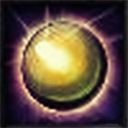
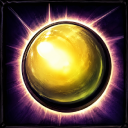
Adjust draft abilitiy (#2063)
* Adjust active lottery tier distribution and buff pudge meat hook

* Update npc_abilities_override.txt

* Update spectre_dispersion2.png

* balance

* adjust ability

* Update npc_abilities_override.txt

---------

Pull request: Adjust draft abilitiy
## Issue

- [x] fix #2053

## Release Note

```
[b]游戏性更新 v5.00a[/b]

- 修正一些bug和平衡性改动。
```

```
[b]Gameplay update v5.00a[/b]

- Fixed some bugs and balance.
```

diff --git a/src/vscripts/modules/lottery/lottery-abilities.ts b/src/vscripts/modules/lottery/lottery-abilities.ts
@@ -13,8 +13,9 @@ export const abilityTiersActive: Tier[] = [
       'abaddon_borrowed_time', // 回光返照
       'alchemist_chemical_rage', // 化学狂暴
       'life_stealer_rage', // 狂暴
+      'marci_unleash', // 怒拳破
       // 小技能
-      'gyrocopter_flak_cannon', // 高射火炮
+      'dark_willow_shadow_realm', // 暗影之境
     ],
   },
   {
@@ -22,22 +23,23 @@ export const abilityTiersActive: Tier[] = [
     names: [
       // 主动技能
       // 大招
-      'marci_unleash', // 怒拳破
       'juggernaut_omni_slash', // 无敌斩
       'sven_gods_strength', // 神之力量
       'legion_commander_duel', // 决斗
       'mars_bulwark', // 护身甲盾
       'enigma_black_hole', // 黑洞
       'faceless_void_time_zone', // 逆转时空
+      'doom_bringer_doom', // 末日
 
       // 小技能
-      'dark_willow_shadow_realm', // 暗影之境
       'antimage_counterspell', // 法术反制
+      'marci_bodyguard', // 护卫术
 
       // 自定义技能
       'imba_chaos_knight_phantasm', // 混沌之军
       'bloodseeker_blood_mist2', // 血魔 血雾
       'ability_trigger_on_active', //紫蝴蝶
+      'brewmaster_drunken_boxing', // 酒仙 醉拳
     ],
   },
   {
@@ -45,33 +47,34 @@ export const abilityTiersActive: Tier[] = [
     names: [
       // 主动技能
       // 大招
-      'doom_bringer_doom', // 末日
       'shadow_shaman_mass_serpent_ward', // 群蛇守卫
       'necrolyte_reapers_scythe', // 死神镰刀
       'storm_spirit_ball_lightning', // 球状闪电
       'slark_shadow_dance', // 暗影之舞
       'brewmaster_primal_split_lua', // 元素分离 改
-      'tidehunter_ravage', // 毁灭
-      'dazzle_bad_juju', // 邪能
       // 'dragon_knight_elder_dragon_form', //变龙 近战选择有问题
       'puck_dream_coil', // 梦境缠绕
-      'elder_titan_earth_splitter', // 裂地沟壑
-      'marci_bodyguard', // 护卫术
+      'elder_titan_earth_splitter', // 上古巨神 裂地沟壑
       'void_spirit_astral_step', // 太虚之径
       'lich_chain_frost', // 连环霜冻
       'jakiro_macropyre', // 烈焰焚身
+      'axe_culling_blade', // 淘汰之刃
+      'treant_overgrowth', // 疯狂生长
+      'zuus_thundergods_wrath', // 雷神之怒
+      'crystal_maiden_freezing_field', // 极寒领域
 
       // 小技能
-      'dark_seer_vacuum', // 真空
-      'mars_bulwark', // 护身甲盾
+      'gyrocopter_flak_cannon', // 高射火炮
       'dark_willow_bramble_maze', // 荆棘迷宫
       'ember_spirit_sleight_of_fist', // 无影拳
-      'warlock_fatal_bonds', // 致命连接
+      'shredder_whirling_death', // 死亡旋风
+      'magnataur_empower', // 授予力量
+      'tidehunter_kraken_shell', // 海妖外壳
+      'earthshaker_enchant_totem', // 强化图腾
 
       // 自定义技能
       'clinkz_burning_barrage2', // 炽烈火雨
       'ancient_apparition_freezing_aura', // 极寒光环
-      'brewmaster_drunken_boxing', // 酒仙 醉拳
     ],
   },
   {
@@ -79,60 +82,52 @@ export const abilityTiersActive: Tier[] = [
     names: [
       // 主动技能
       // 大招
+      'tidehunter_ravage', // 毁灭
       'bounty_hunter_track', // 追踪术
       'lion_finger_of_death', // 死亡一指
       'silencer_global_silence', // 全领域禁默
-      'bloodseeker_rupture', // 割裂
-      'centaur_stampede', // 奔袭冲撞
       'winter_wyvern_winters_curse', // 寒冬诅咒
       'kunkka_ghostship', // 幽灵船
       'pangolier_gyroshell', // 地雷滚滚
-      'treant_overgrowth', // 疯狂生长
       'tinker_rearm_lua', // 再装填
       'ringmaster_wheel', // 奇观轮
-      'axe_culling_blade', // 淘汰之刃
       'batrider_flaming_lasso', // 燃烧枷锁
+      'dazzle_bad_juju', // 邪能
 
       // 小技能
+      'warlock_fatal_bonds', // 致命连接
       'lion_impale', // 裂地尖刺
       'sven_storm_bolt', // 风暴之拳 斯温
-      'lina_light_strike_array', // 光击阵
       'omniknight_repel', // 咸鱼恩赐
-      'earthshaker_enchant_totem', // 强化图腾
       'templar_assassin_refraction', // 圣堂刺客 折光
       'centaur_double_edge', // 双刃剑
-      'zuus_thundergods_wrath', // 雷神之怒
       'axe_berserkers_call', // 狂战士之吼
       'faceless_void_chronosphere', // 时间结界
-      'shredder_whirling_death', // 死亡旋风
       'tidehunter_anchor_smash', // 锚击
       'primal_beast_trample', // 踏
       'mars_gods_rebuke', // 神之遣戒
-      'tidehunter_kraken_shell', // 海妖外壳
       'antimage_blink', // 闪烁
       'ringmaster_tame_the_beasts', // 驯兽术
-      'ringmaster_impalement', // 尖刀戏
       'slark_saltwater_shiv', // 海浪短刀
       'treant_natures_grasp', // 自然卷握
       'abyssal_underlord_firestorm', // 火焰风暴
       'obsidian_destroyer_objurgation', // 责难
       'magnataur_reverse_polarity', // 两级反转
       'bloodseeker_bloodrage', // 血怒
-      'axe_battle_hunger', // 战斗饥渴
-      'batrider_flamebreak', // 燃烧弹
       'batrider_firefly', // 火焰飞行
       'pugna_nether_blast', // 幽冥爆轰
       'undying_decay', // 不朽尸王 腐朽
       'furion_teleportation', // 自然传送
       'mirana_starfall', // 群星风暴
-      'magnataur_empower', // 授予力量
       'jakiro_dual_breath', // 冰火交加
       'jakiro_ice_path', // 冰封路径
       'phantom_assassin_blur', // 魅影无形
+      'monkey_king_boundless_strike', // 棒击大地
 
       // 自定义技能
       'lina_flame_cloak2', // 火女 腾焰斗篷
       'dazzle_rain_of_vermin', // 诅咒之雨
+      'alchemist_berserk_potion2', // 炼金 狂暴药剂
     ],
   },
   {
@@ -140,15 +135,18 @@ export const abilityTiersActive: Tier[] = [
     names: [
       // 主动技能
       // 大招
+      'centaur_stampede', // 奔袭冲撞
+      'bloodseeker_rupture', // 割裂
       'queenofpain_sonic_wave', // 超声冲击波
       'omniknight_guardian_angel', // 守护天使
       'earthshaker_echo_slam', // 回音击
       'witch_doctor_death_ward', // 死亡守卫
       'slardar_amplify_damage', // 侵蚀雾霭 点灯
       'medusa_stone_gaze', // 石化凝视
-      'crystal_maiden_freezing_field', // 极寒领域
 
       // 小技能
+      'lina_light_strike_array', // 光击阵
+      'ringmaster_impalement', // 尖刀戏
       'dazzle_shadow_wave', // 暗影波
       'skywrath_mage_arcane_bolt', // 天怒奥法鹰隼
       'kunkka_torrent', // 洪流
@@ -170,13 +168,12 @@ export const abilityTiersActive: Tier[] = [
       'crystal_maiden_crystal_nova', // 冰霜新星
       'crystal_maiden_frostbite', // 冰封禁制
       'luna_lucent_beam', // 月光
-      'monkey_king_boundless_strike', // 棒击大地
       'magnataur_shockwave', // 震荡波
       'lich_death_charge', // 献身
+      'dark_seer_vacuum', // 真空
 
       // 自定义技能
       'arc_warden_scepter2', // 人工神符
-      'alchemist_berserk_potion2', // 炼金 狂暴药剂
     ],
   },
 ];
@@ -188,35 +185,35 @@ export const abilityTiersPassive: Tier[] = [
       // 被动技能
       'muerta_gunslinger', // 神枪在手
       'slark_essence_shift', // 能量转移
-      'faceless_void_time_lock', // 时间锁定
 
       // 法球/开关技能
-      'medusa_split_shot', // 分裂箭
       'winter_wyvern_arctic_burn', // 严寒灼烧
 
       // 自定义技能
+      'spectre_dispersion2', // 幽鬼 折射改
       'batrider_smoldering_resin2', // 蝙蝠骑士 树脂
+      'jakiro_double_trouble2', // 双头龙 天生一对
     ],
   },
   {
     level: 4,
     names: [
       // 被动技能
+      'faceless_void_time_lock', // 时间锁定
       'dazzle_good_juju', // 善咒
       'templar_assassin_psi_blades', // 灵能之刃
       'luna_moon_glaive', // 月刃
-      'elder_titan_natural_order', // 自然秩序 降低魔抗不生效
       'phantom_assassin_coup_de_grace', // 恩赐解脱
       'slardar_bash', // 深海重击
-      // 'spectre_dispersion', // 幽鬼 折射
-      'spectre_dispersion2', // 幽鬼 折射改
       'clinkz_infernal_shred2', // 克林克兹先天 地狱之裂
-      'riki_innate_backstab', // 力丸 背刺
+      'shadow_demon_menace', // 暗影恶魔 威胁
+
+      // 法球/开关技能
+      'medusa_split_shot', // 分裂箭
 
       // 自定义技能
       'dark_seer_normal_punch2', // 普通一拳
       'ogre_magi_multicast_lua', // 多重施法
-      'jakiro_double_trouble2', // 双头龙 天生一对
       'leshrac_defilement2', // 大肆污染 拉席克
       'tinker_eureka2', // 修补匠 尤里卡！
       'rubick_curiosity2', // 拉比克 先天 奇心
@@ -232,12 +229,12 @@ export const abilityTiersPassive: Tier[] = [
     level: 3,
     names: [
       // 被动技能
-      'shadow_demon_menace', // 暗影恶魔 威胁
+      'riki_innate_backstab', // 力丸 背刺
+      'elder_titan_natural_order', // 自然秩序 降低魔抗不生效
       'muerta_supernatural', // 琼英碧灵 超自然
       'dawnbreaker_luminosity', // 熠熠生辉
       'earthshaker_aftershock', // 余震
       'chaos_knight_chaos_strike', // 混沌一击
-      'nevermore_dark_lord', // 魔王降临
       'riki_backstab', // 刀光谍影
       'weaver_geminate_attack', // 连击
       'spectre_desolate', // 荒芜
@@ -245,10 +242,8 @@ export const abilityTiersPassive: Tier[] = [
       'juggernaut_blade_dance', // 剑舞
       'tiny_grow', // 长大
       'sven_great_cleave', // 巨力挥舞
-      'shredder_reactive_armor', // 活性活甲
       'silencer_glaives_of_wisdom', // 智慧之刃
       'tiny_insurmountable', // 小小 不可逾越
-      'chaos_knight_fundamental_forging', // 混沌骑士 基本法则锻造
       'drow_ranger_trueshot', // 精准光环
       'death_prophet_witchcraft', // 死亡先知 巫术精研
 
@@ -260,7 +255,6 @@ export const abilityTiersPassive: Tier[] = [
 
       // 自定义技能
       'dragon_knight_dragon_blood2', // 龙骑 龙族血统
-      'legion_commander_outfight_them', // 军团指挥官 迎难而战
       'sniper_keen_scope2', // 狙击手 基恩瞄准镜
       'primal_beast_colossal2', // 獸 庞
       'silencer_brain_drain2', // 沉默术士 默默受苦
@@ -268,7 +262,6 @@ export const abilityTiersPassive: Tier[] = [
       'centaur_sturdy', // 人马 不屈
       'ancient_apparition_frost_orb', // 冰霜法球
       'rubick_might_and_magus2', // 拉比克 力量与魔法
-      'ancient_apparition_bone_chill2', // 冰魂 先天 刺骨严寒
       'crystal_maiden_ice_explosion', // 冰女 冰暴
       'ability_trigger_on_move', //橙影蝴蝶
     ],
@@ -277,7 +270,10 @@ export const abilityTiersPassive: Tier[] = [
     level: 2,
     names: [
       // 被动技能
-      'phoenix_dying_light', // 凤凰 消逝之光
+      'shredder_reactive_armor', // 活性活甲
+      'chaos_knight_fundamental_forging', // 混沌骑士 基本法则锻造
+      'ancient_apparition_bone_chill2', // 冰魂 先天 刺骨严寒
+      'nevermore_dark_lord', // 魔王降临
       'nevermore_necromastery', // 影魔 支配死灵
       'tusk_bitter_chill', // 巨牙 严寒
       'ursa_fury_swipes', // 怒意狂击
@@ -286,8 +282,6 @@ export const abilityTiersPassive: Tier[] = [
       'rubick_arcane_supremacy', // 奥术至尊
       'monkey_king_jingu_mastery', // 如意棒法
       'skeleton_king_mortal_strike', // 本命一击
-      'huskar_berserkers_blood', // 狂战士之血
-      'legion_commander_moment_of_courage', // 勇气之霎
       'abyssal_underlord_atrophy_aura', // 衰退光环
       // 'obsidian_destroyer_equilibrium', // 精华变迁
       'abaddon_frostmourne', // 魔霭诅咒
@@ -296,7 +290,6 @@ export const abilityTiersPassive: Tier[] = [
       'centaur_return', // 人马 反伤
       'necrolyte_heartstopper_aura', // 竭心光环
       'drow_ranger_marksmanship', // 射手天赋
-      'night_stalker_hunter_in_the_night', // 暗夜猎影
       'undying_ceaseless_dirge', // 不朽尸王 挽歌犹唱
       'nyx_assassin_neuro_sting', // 司夜刺客 法力燃烧
       'zuus_static_field', // 宙斯 静电场
@@ -305,6 +298,10 @@ export const abilityTiersPassive: Tier[] = [
       'medusa_mana_shield', // 魔法盾
       'luna_lunar_blessing', // 露娜 月之祝福
       'bloodseeker_sanguivore', // 血魔 食血动物
+      'bounty_hunter_jinada', // 忍术
+      'antimage_mana_break', // 法力损毁
+      'lina_fiery_soul', // 炽魂
+      'alchemist_goblins_greed2', // 贪婪
 
       // 法球/开关技能
       'doom_bringer_infernal_blade', // 阎刃
@@ -314,7 +311,6 @@ export const abilityTiersPassive: Tier[] = [
       'mirana_celestial_quiver', // 米拉娜 天界箭袋
 
       // 自定义技能
-      'abyssal_underlord_firestorm2', // 火雨降临
       'ursa_maul2', // 拍拍 暴烈之爪 +攻击
       'axe_one_man_army2', // 斧王 一人成军
       'dark_seer_quick_wit2', // 才思敏捷
@@ -324,14 +320,14 @@ export const abilityTiersPassive: Tier[] = [
     level: 1,
     names: [
       // 被动技能
+      'huskar_berserkers_blood', // 狂战士之血
+      'night_stalker_hunter_in_the_night', // 暗夜猎影
+      'legion_commander_moment_of_courage', // 勇气之霎
+      'phoenix_dying_light', // 凤凰 消逝之光
       'pangolier_fortune_favors_the_bold', // 滚滚 天佑勇者
-      'lina_fiery_soul', // 炽魂
       'enchantress_untouchable', // 不可侵犯
-      'alchemist_goblins_greed2', // 贪婪
       'spirit_breaker_greater_bash', // 巨力重击
-      'antimage_mana_break', // 法力损毁
       'sniper_headshot', // 爆头
-      'bounty_hunter_jinada', // 忍术
       'razor_storm_surge', // 风暴涌动
       'troll_warlord_fervor', // 热血战魂
       'visage_gravekeepers_cloak', // 陵卫斗篷
@@ -340,9 +336,10 @@ export const abilityTiersPassive: Tier[] = [
       'rubick_null_field', // 失效立场
       'pangolier_lucky_shot', // 幸运一击
       'faceless_void_backtrack2', // 虚空 回到过去
-      'crystal_maiden_brilliance_aura', // 奥术光环 冰女
       'gyrocopter_afterburner', // 矮人直升机 加力燃烧器
       'omniknight_degen_aura', // 全能骑士 退化光环
+      'legion_commander_outfight_them', // 军团指挥官 迎难而战
+      'crystal_maiden_brilliance_aura', // 奥术光环 冰女
 
       // 法球/开关技能
       'drow_ranger_frost_arrows', // 霜冻之箭
@@ -354,6 +351,7 @@ export const abilityTiersPassive: Tier[] = [
       'black_drake_magic_amplification_aura', // 黑蜉蝣 魔法增强光环
 
       // 自定义技能
+      'abyssal_underlord_firestorm2', // 火雨降临
       'bounty_hunter_cutpurse2', // 赏金 妙手空空 技能偷钱
       'abyssal_underlord_malice_aura', // 怨念光环
       'crystal_maiden_glacial_guard2', // 冰女 先天 冰川护体